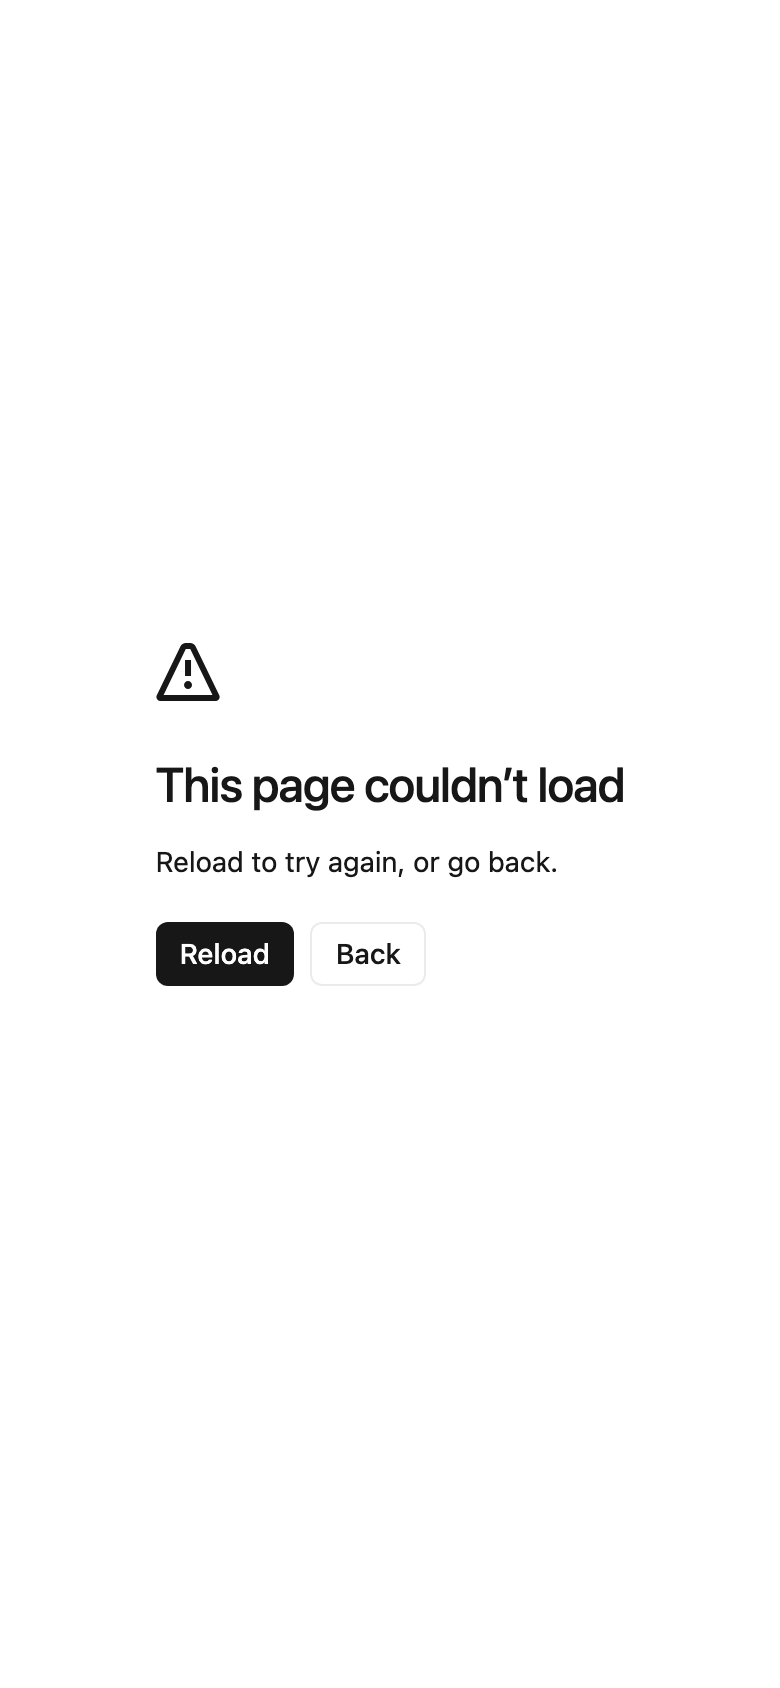
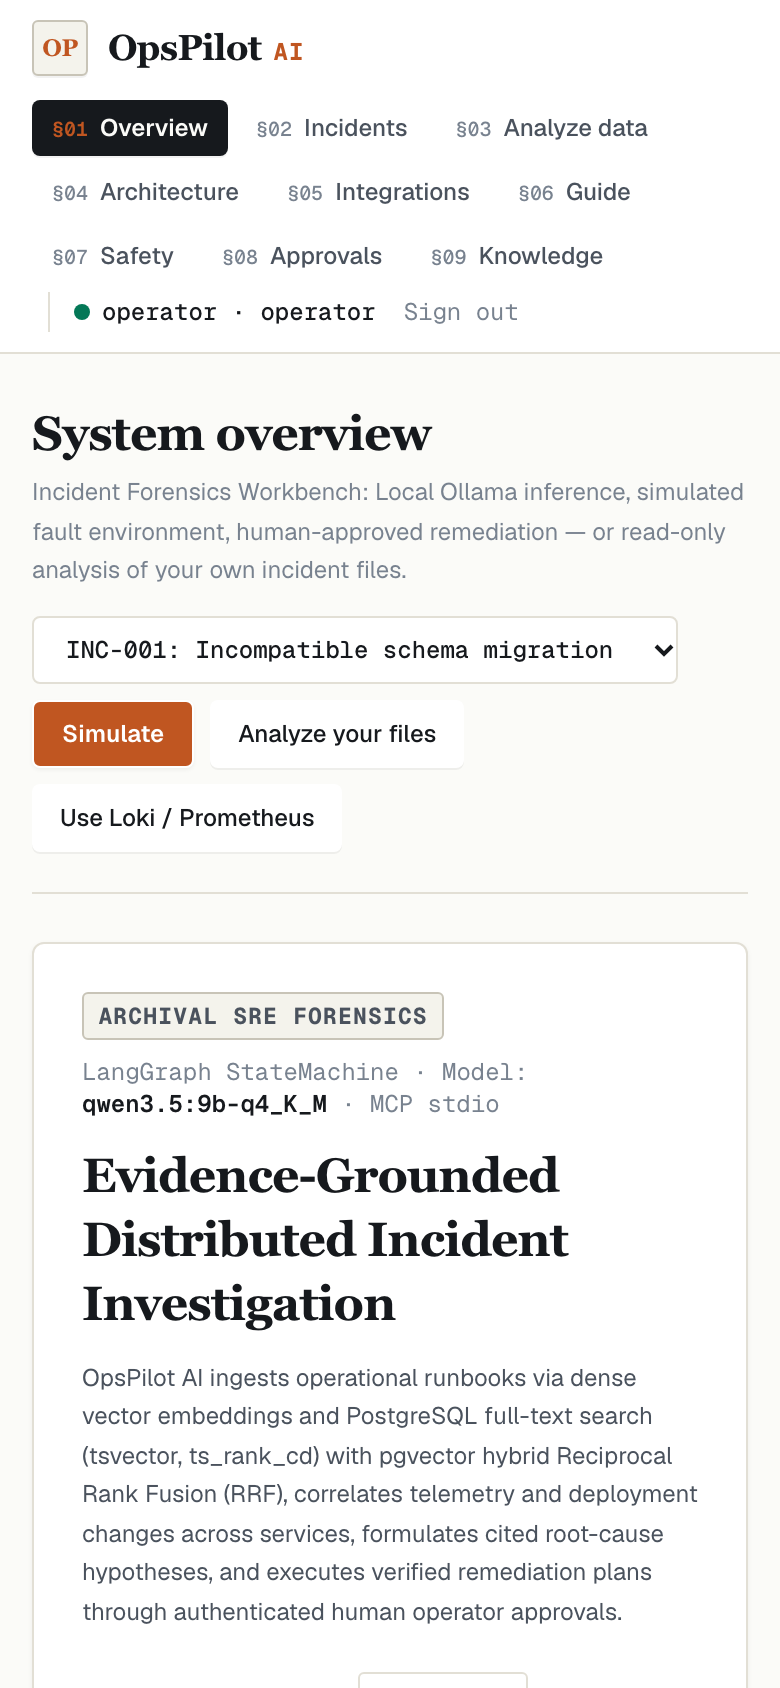
fix(ui): resolve overview dependencies crash, add smoke assertions, and refresh intake screenshots

diff --git a/apps/web/e2e/overview-smoke.spec.ts b/apps/web/e2e/overview-smoke.spec.ts
@@ -1,0 +1,47 @@
+import { expect, test } from "@playwright/test";
+import { signIn } from "./auth";
+
+test("overview home page renders primary content and operating modes without errors or crash boundaries", async ({ page }) => {
+  const errors: string[] = [];
+  page.on("pageerror", (e) => errors.push(e.message));
+
+  await signIn(page);
+  await page.goto("/");
+
+  // Error boundary assertion
+  await expect(page.getByText(/This page couldn['’]t load/i)).toHaveCount(0);
+  await expect(page.getByText(/Application error: a client-side exception/i)).toHaveCount(0);
+
+  // Primary content verification
+  await expect(page.getByRole("heading", { name: "System overview" })).toBeVisible();
+  await expect(page.getByText("Evidence-Grounded Distributed Incident Investigation")).toBeVisible();
+  await expect(page.getByRole("heading", { name: "Initiate Investigation Dossier" })).toBeVisible();
+
+  // 3 Operating Modes tabs verification
+  await expect(page.getByRole("button", { name: /1\. Simulated Fault Scenarios/i })).toBeVisible();
+  await expect(page.getByRole("button", { name: /2\. Uploaded Artifacts/i })).toBeVisible();
+  await expect(page.getByRole("button", { name: /3\. Connected Loki\/Prometheus/i })).toBeVisible();
+
+  // Mode switching verification
+  await page.getByRole("button", { name: /2\. Uploaded Artifacts/i }).click();
+  await expect(page.getByText("Drop raw incident logs, CSV metric series, or JSON event traces")).toBeVisible();
+
+  await page.getByRole("button", { name: /3\. Connected Loki\/Prometheus/i }).click();
+  await expect(page.getByText("Audit Telemetry from Grafana Loki & Prometheus")).toBeVisible();
+
+  await page.getByRole("button", { name: /1\. Simulated Fault Scenarios/i }).click();
+  await expect(page.getByLabel("Scenario")).toBeVisible();
+
+  // Runtime Seams & Health card verification
+  await expect(page.getByRole("heading", { name: "Runtime Seams & Health" })).toBeVisible();
+
+  // Navigation verification
+  await expect(page.getByRole("link", { name: "Overview", exact: true })).toBeVisible();
+  await expect(page.getByRole("link", { name: "Incidents", exact: true })).toBeVisible();
+  await expect(page.getByRole("link", { name: "Architecture", exact: true })).toBeVisible();
+  await expect(page.getByRole("link", { name: "Safety", exact: true })).toBeVisible();
+  await expect(page.getByRole("link", { name: "Guide", exact: true })).toBeVisible();
+
+  // Assert no uncaught page errors
+  expect(errors, `Uncaught page errors on overview: ${errors.join("; ")}`).toEqual([]);
+});

diff --git a/apps/web/app/page.tsx b/apps/web/app/page.tsx
@@ -489,7 +489,7 @@ export default function OverviewPage() {
         >
           {deps.isLoading ? (
             <div className="py-6 text-center font-mono text-xs text-muted">Checking runtime seams…</div>
-          ) : deps.data ? (
+          ) : deps.data?.checks ? (
             <div className="space-y-3 font-mono text-xs">
               <ul className="space-y-2">
                 {Object.entries(deps.data.checks).map(([name, c]) => (
